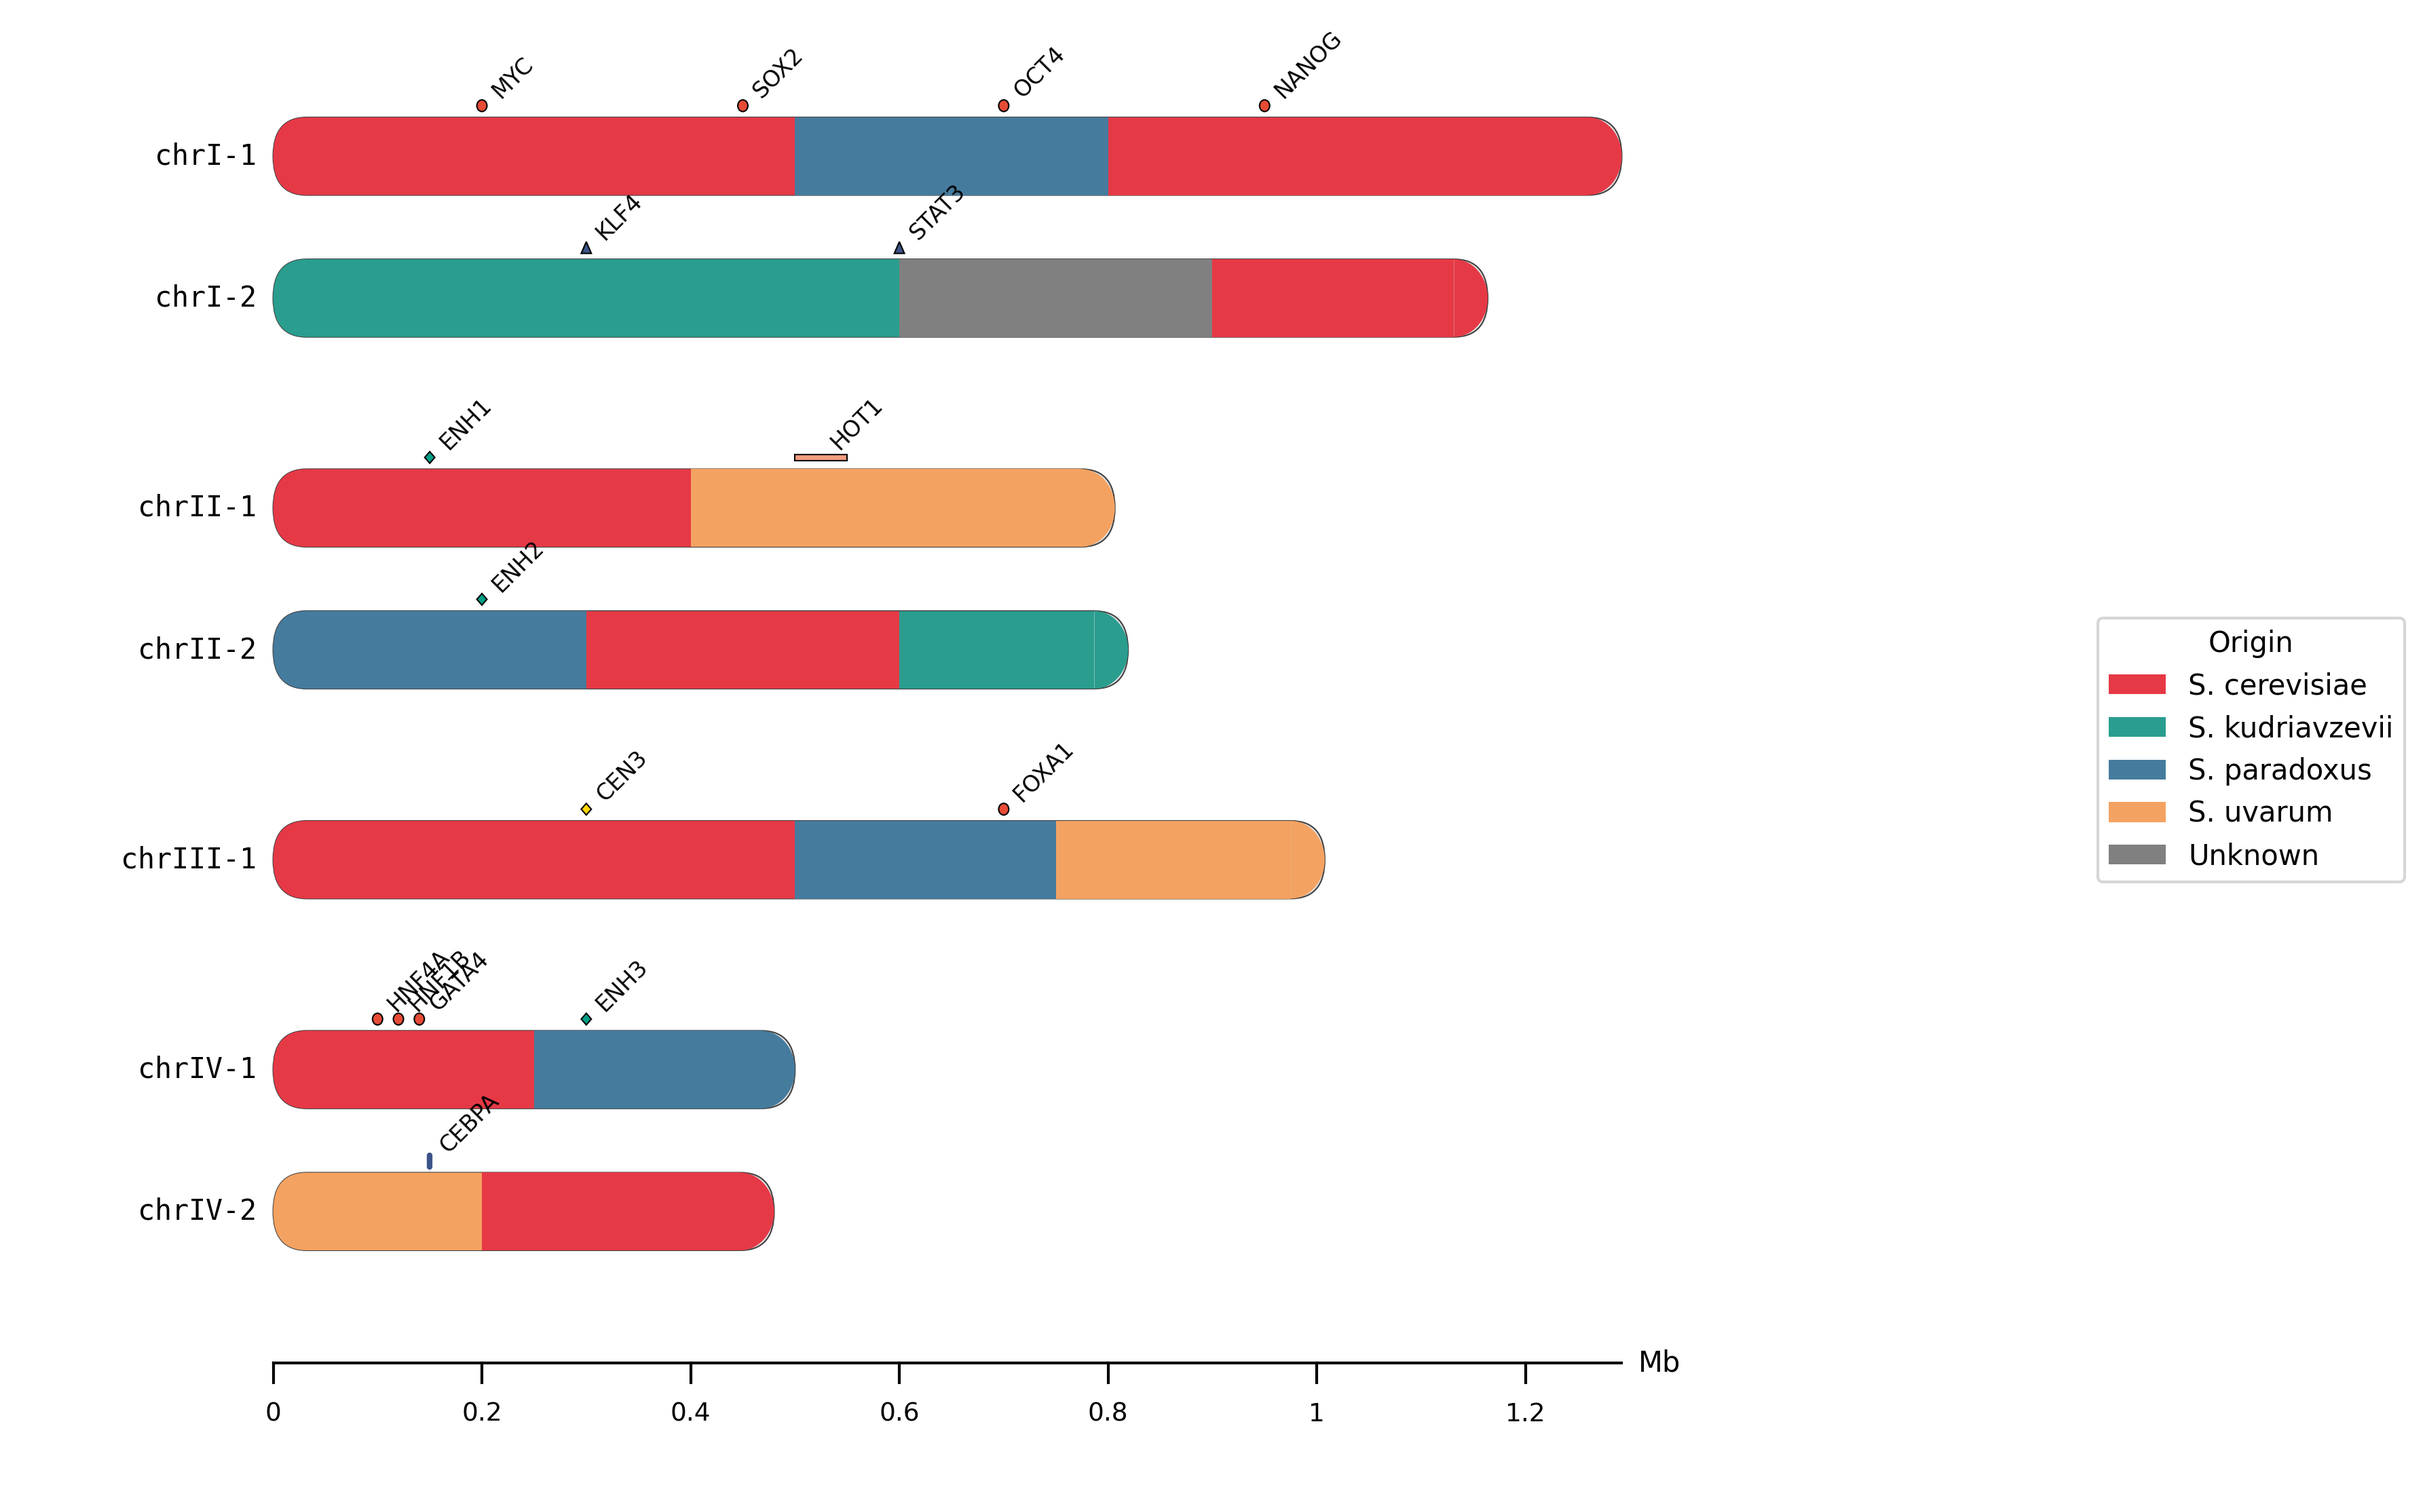
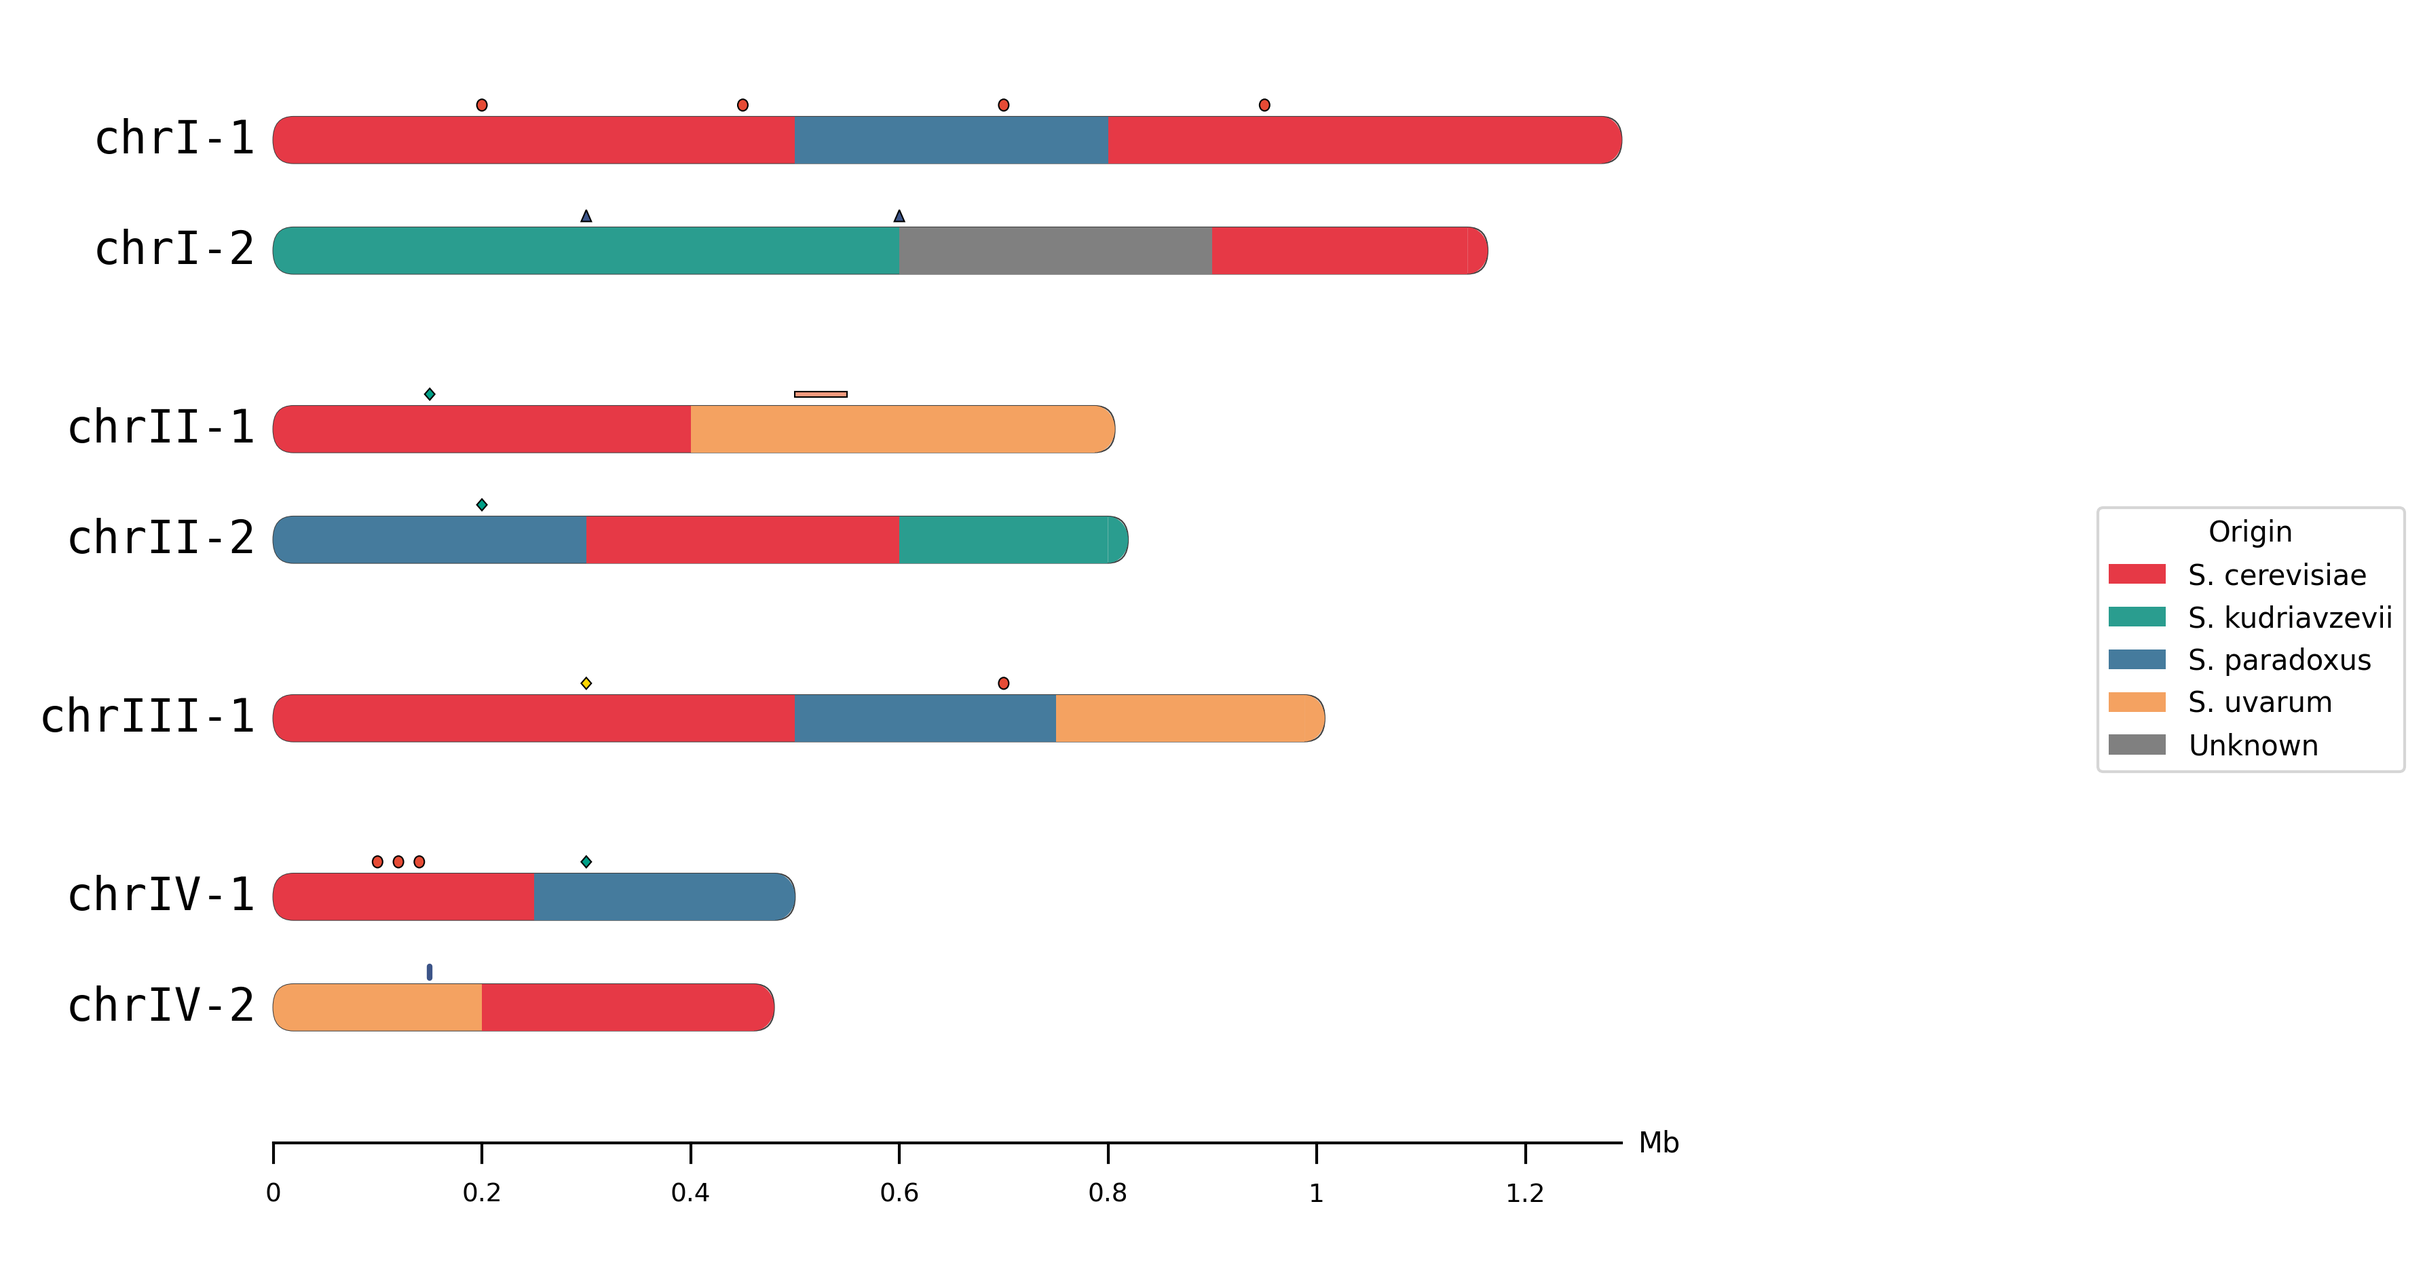
Add --no-labels option and update defaults (v0.2.1)
- Add --no-labels option to hide annotation labels
- Change default chromosome height to 0.24 inches (was 0.4)
- Change default font size to 16 (was 10)

🤖 Generated with [Claude Code](https://claude.com/claude-code)

diff --git a/hybridchromomap.py b/hybridchromomap.py
@@ -503,8 +503,8 @@ class ChromoMapRenderer:
         origins: Dict[str, Origin],
         annotations: Optional[List[Annotation]] = None,
         fig_width: float = 12.0,
-        chrom_height: float = 0.4,
-        font_size: float = 10.0,
+        chrom_height: float = 0.24,
+        font_size: float = 16.0,
         same_chrom_spacing: float = 0.15,
         diff_chrom_spacing: float = 0.5,
         left_margin: float = 1.5,
@@ -513,6 +513,7 @@ class ChromoMapRenderer:
         bottom_margin: float = 1.0,
         marker_size: float = 0.06,
         label_angle: float = 45.0,
+        show_labels: bool = True,
     ):
         self.karyotype = karyotype
         self.origins = origins
@@ -528,6 +529,7 @@ class ChromoMapRenderer:
         self.bottom_margin = bottom_margin
         self.marker_size = marker_size
         self.label_angle = label_angle
+        self.show_labels = show_labels
 
         # Calculate scale: bp to inches
         self.max_bp = karyotype.max_length
@@ -904,7 +906,7 @@ class ChromoMapRenderer:
         angle: float
     ):
         """Draw a tilted label next to a marker."""
-        if not label:
+        if not label or not self.show_labels:
             return
 
         ax.text(
@@ -1203,13 +1205,13 @@ class ChromoMapRenderer:
 @click.option(
     '--chrom-height',
     type=float,
-    default=0.4,
+    default=0.24,
     help='Chromosome bar height in inches'
 )
 @click.option(
     '--font-size',
     type=float,
-    default=10.0,
+    default=16.0,
     help='Label font size'
 )
 @click.option(
@@ -1237,6 +1239,12 @@ class ChromoMapRenderer:
     default=45.0,
     help='Annotation label rotation angle in degrees'
 )
+@click.option(
+    '--no-labels',
+    is_flag=True,
+    default=False,
+    help='Hide annotation labels (show only markers)'
+)
 def main(
     karyotype: Path,
     segments: Path,
@@ -1251,7 +1259,8 @@ def main(
     dpi: int,
     annotations: Optional[Path],
     marker_size: float,
-    label_angle: float
+    label_angle: float,
+    no_labels: bool
 ):
     """
     HybridChromoMap - Chromosome ancestry painting visualization
@@ -1304,7 +1313,8 @@ def main(
             chrom_height=chrom_height,
             font_size=font_size,
             marker_size=marker_size,
-            label_angle=label_angle
+            label_angle=label_angle,
+            show_labels=not no_labels
         )
         renderer.render(
             output_path=out,

diff --git a/README.md b/README.md
@@ -2,7 +2,7 @@
 
 A tool for drawing chromosome ancestry painting diagrams for hybrid species.
 
-**Version: 0.1.5**
+**Version: 0.2.1**
 
 **[Try the Web Version](https://johnnychen1113.github.io/hybridChromoMap/)** - No installation required!
 
@@ -70,11 +70,12 @@ python hybridchromomap.py \
 | `--legend` | | Legend position (right/bottom/none) | right |
 | `--no-scale` | | Hide scale bar | False |
 | `--width` | | Figure width in inches | 12 |
-| `--chrom-height` | | Chromosome bar height in inches | 0.4 |
-| `--font-size` | | Label font size | 10 |
+| `--chrom-height` | | Chromosome bar height in inches | 0.24 |
+| `--font-size` | | Label font size | 16 |
 | `--dpi` | | PNG output resolution | 300 |
 | `--marker-size` | | Annotation marker size in inches | 0.06 |
 | `--label-angle` | | Annotation label rotation angle | 45 |
+| `--no-labels` | | Hide annotation labels (show only markers) | False |
 
 ## Input File Formats
 
@@ -227,6 +228,11 @@ Output format is determined by file extension:
 - `.pdf` - Vector graphics (publication-ready)
 
 ## Changelog
+
+### v0.2.1
+- Add `--no-labels` option to hide annotation labels
+- Change default chromosome height to 0.24 inches (was 0.4)
+- Change default font size to 16 (was 10)
 
 ### v0.1.5
 - Add annotation markers feature (`-a` option)
